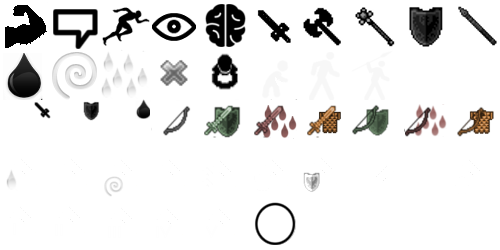
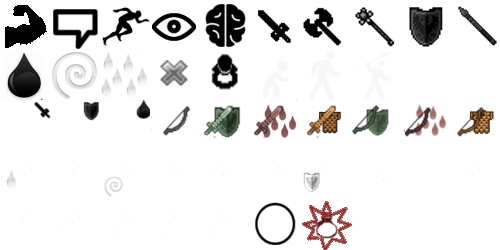
Finished off Thrown Item Component

Changed region(s): [[0.6, 0.812, 0.72, 1.0]]

diff --git a/Divine Right/DivineRightGame/Managers/UserInterfaceManager.cs b/Divine Right/DivineRightGame/Managers/UserInterfaceManager.cs
@@ -11,6 +11,7 @@ using DivineRightGame.CombatHandling;
 using Microsoft.Xna.Framework;
 using DRObjects.Graphics;
 using DRObjects.ActorHandling.SpecialAttacks;
+using DRObjects.Items.Archetypes.Local;
 
 namespace DivineRightGame.Managers
 {
@@ -114,6 +115,28 @@ namespace DivineRightGame.Managers
                     }
                 }
             }
+            else if (actionType == ActionType.THROW_ITEM)
+            {
+                //Throw it
+                Potion potion = args[2] as Potion;
+                Actor attacker = args[0] as Actor;
+                List<Actor> victims = args[1] as List<Actor>;
+
+                //Also create a temporary icon to show what was done
+                foreach(var victim in victims)
+                {
+                    TemporaryGraphic tg = new TemporaryGraphic()
+                    {
+                        Coord = victim.MapCharacter.Coordinate,
+                        Graphic = SpriteManager.GetSprite(InterfaceSpriteName.POTION_BREAK),
+                        LifeTime = 2
+                    };
+
+                    GameState.LocalMap.TemporaryGraphics.Add(tg);
+                }
+
+                feedback.AddRange(potion.ThrowUpon(attacker, victims));
+            }
             else if (actionType == ActionType.IDLE)
             {
                 //Do nothing
@@ -141,7 +164,7 @@ namespace DivineRightGame.Managers
                 }
             }
 
-            if (actionType == ActionType.EXAMINE || actionType == ActionType.MOVE || (actionType == ActionType.ATTACK && validAttack) || actionType == ActionType.IDLE)
+            if (actionType == ActionType.EXAMINE || actionType == ActionType.THROW_ITEM || actionType == ActionType.MOVE || (actionType == ActionType.ATTACK && validAttack) || actionType == ActionType.IDLE)
             {
                 //Perform a tick
                 //Clear the Log

diff --git a/Divine Right/Divine Right/Divine Right/InterfaceComponents/Components/ThrowItemComponent.cs b/Divine Right/Divine Right/Divine Right/InterfaceComponents/Components/ThrowItemComponent.cs
@@ -9,6 +9,8 @@ using System.Text;
 using Divine_Right.HelperFunctions;
 using DRObjects.Graphics;
 using Microsoft.Xna.Framework.Graphics;
+using DivineRightGame;
+using DRObjects.Items.Archetypes.Local;
 
 namespace Divine_Right.InterfaceComponents.Components
 {
@@ -86,6 +88,50 @@ namespace Divine_Right.InterfaceComponents.Components
                 destroy = true;
             }
 
+            Potion selectedPotion = null;
+
+            //Determine the potion that was selected
+            foreach(var r in this.ItemRects)
+            {
+                if (r.Rect.Contains(x,y))
+                {
+                    selectedPotion = r.Item as Potion;
+                }
+            }
+
+            if (selectedPotion == null)
+            {
+                //Never mind
+                return true;
+            }
+
+            //Otherwise, throw the stuff!
+            //Determine who's in the splashzone
+            var blocks = GameState.LocalMap.GetBlocksAroundPoint(targetCoordinate, 1);
+
+            List<Actor> victims = new List<Actor>();
+
+            foreach(var block in blocks)
+            {
+                victims.AddRange(block.GetItems().Where(i => i.IsActive && i.GetType() == typeof(LocalCharacter)).Select(i => (i as LocalCharacter).Actor));
+            }
+
+            //Remove dead ones - just in case
+            victims = victims.Where(v => v.IsAlive).ToList();
+
+            actionType = ActionType.THROW_ITEM;
+            args = new object[3]
+            {
+                Actor,
+                victims,
+                selectedPotion
+            };
+
+            destroy = true;
+
+            //Oh, don't forget to discard the potion
+            selectedPotion.InInventory = false;
+            Actor.Inventory.Inventory.Remove(selectedPotion.Category, selectedPotion);
 
             return true; //modal
         }

diff --git a/Divine Right/Objects/Graphics/SpriteManager.cs b/Divine Right/Objects/Graphics/SpriteManager.cs
@@ -960,6 +960,7 @@ namespace DRObjects.Graphics
             interfaceSprites[(int)InterfaceSpriteName.SA5] = new SpriteData(CHARACTER_SHEET, new Rectangle(200,200,50,50));
             
             interfaceSprites[(int)InterfaceSpriteName.CIRCLE] = new SpriteData(CHARACTER_SHEET, new Rectangle(250, 200, 50, 50));
+            interfaceSprites[(int)InterfaceSpriteName.POTION_BREAK] = new SpriteData(CHARACTER_SHEET, new Rectangle(300, 200, 50, 50));
 
             interfaceSprites[(int)InterfaceSpriteName.BANNER_GREEN] = new SpriteData(BANNERS, new Rectangle(1, 0, 60, 100));
             interfaceSprites[(int)InterfaceSpriteName.BANNER_YELLOW] = new SpriteData(BANNERS, new Rectangle(71, 0, 60, 100));

diff --git a/Divine Right/Objects/Graphics/InterfaceSpriteName.cs b/Divine Right/Objects/Graphics/InterfaceSpriteName.cs
@@ -92,6 +92,7 @@ namespace DRObjects.Graphics
         SA3,
         SA4,
         SA5,
-        CIRCLE
+        CIRCLE,
+        POTION_BREAK
     }
 }

diff --git a/Divine Right/Objects/Enums/ActionTypeEnum.cs b/Divine Right/Objects/Enums/ActionTypeEnum.cs
@@ -36,5 +36,6 @@ namespace DRObjects.Enums
         TOSS_IN_50_COINS,
         READ,
         THROW,
+        THROW_ITEM,
     }
 }
